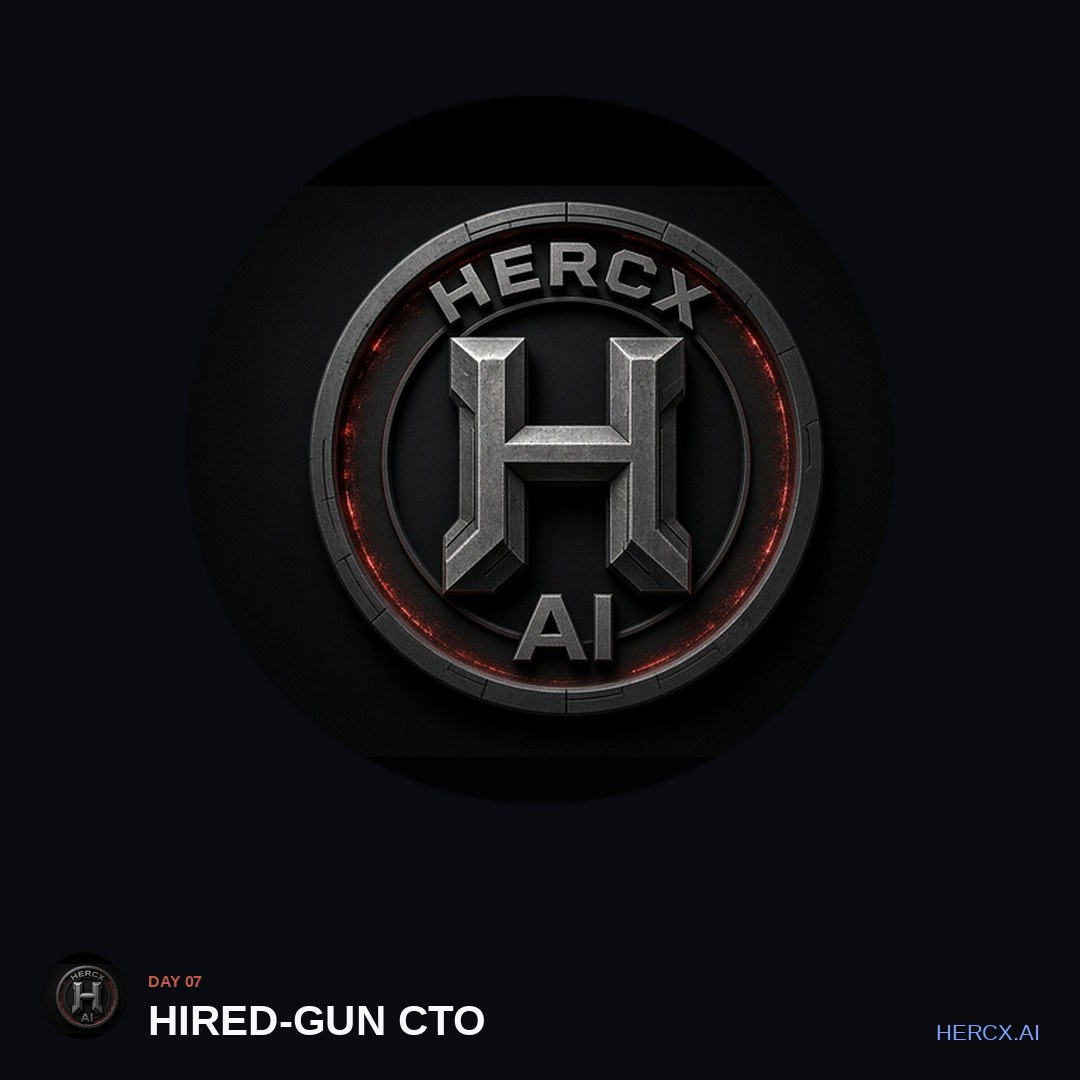
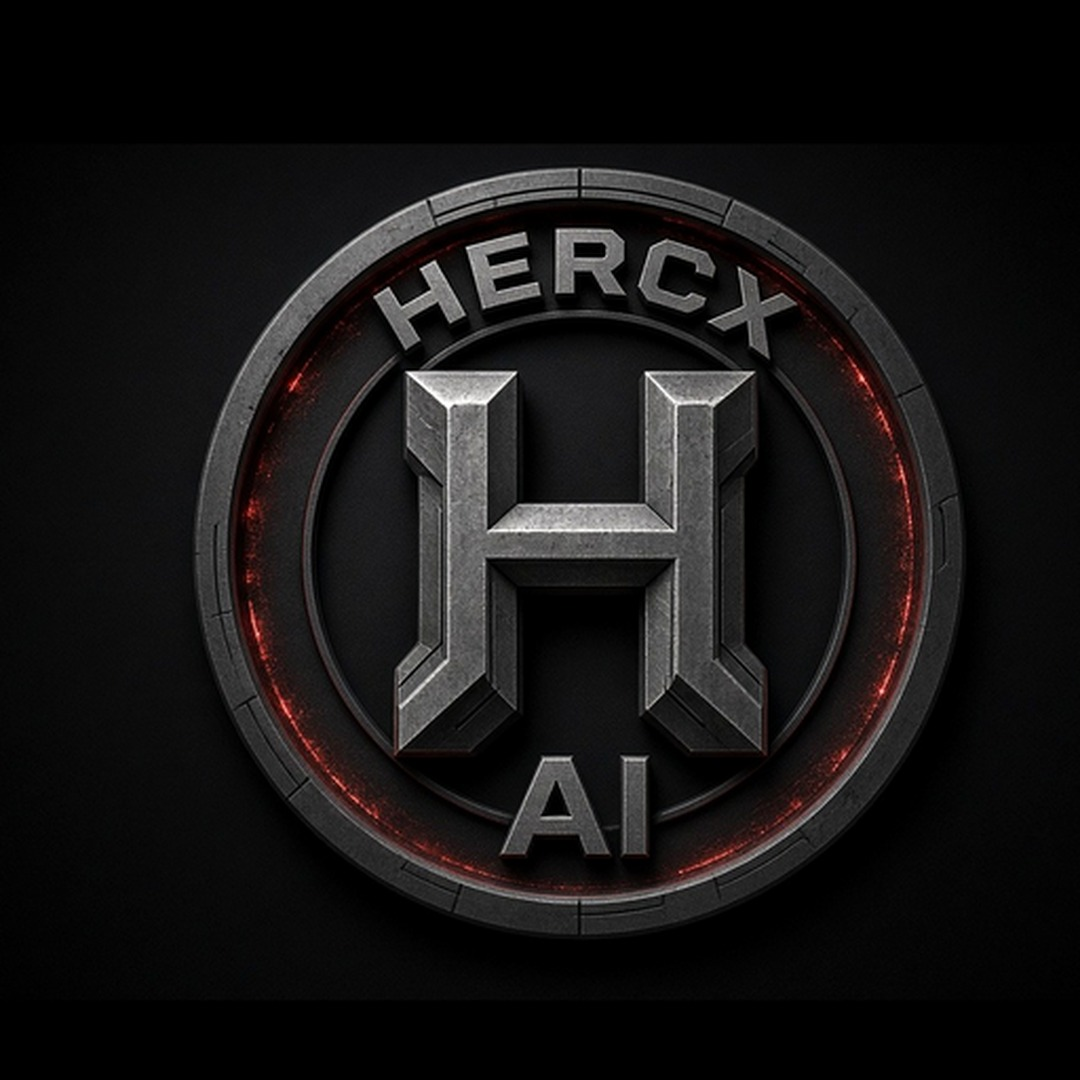
Fix seal background: cut out the black square, Day 7 full-bleed black

Changed region(s): [[0.1833, 0.1528, 0.9167, 0.8861], [0.0306, 0.8861, 0.4583, 0.9778], [0.8556, 0.9472, 0.9778, 0.9778]]

diff --git a/index.html b/index.html
@@ -91,7 +91,7 @@
     }
     .brand img { width: 40px; height: 40px; border-radius: 50%; }
     .hero-seal { display: flex; justify-content: center; }
-    .hero-seal img { width: min(420px, 88vw); height: auto; }
+    .hero-seal img { width: min(420px, 88vw); height: auto; background: transparent; }
     .brand span { color: var(--accent-soft); }
     .nav-links { display: flex; align-items: center; gap: 28px; color: var(--text-dim); font-size: 14px; font-weight: 500; }
     .nav-links a:hover { color: var(--ice); }
@@ -305,7 +305,7 @@
       </div>
 
       <div class="hero-seal">
-        <img src="brand/seal.png" alt="Hercx AI forged seal" width="512" height="512" />
+        <img src="brand/seal-cutout.png" alt="Hercx AI forged seal" width="512" height="512" />
       </div>
     </section>
 
